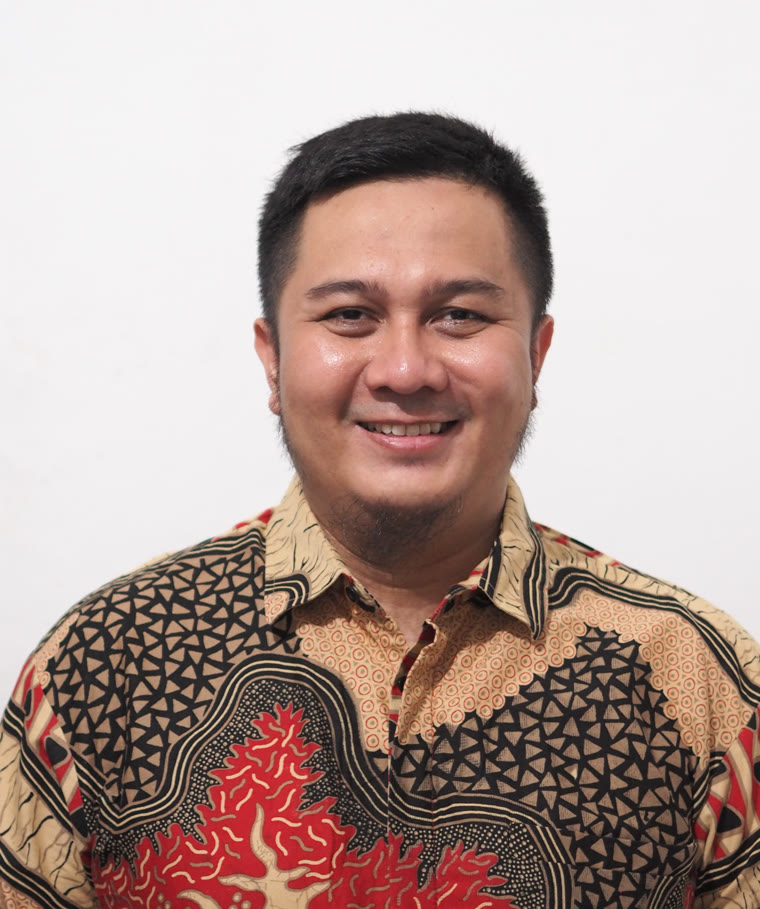
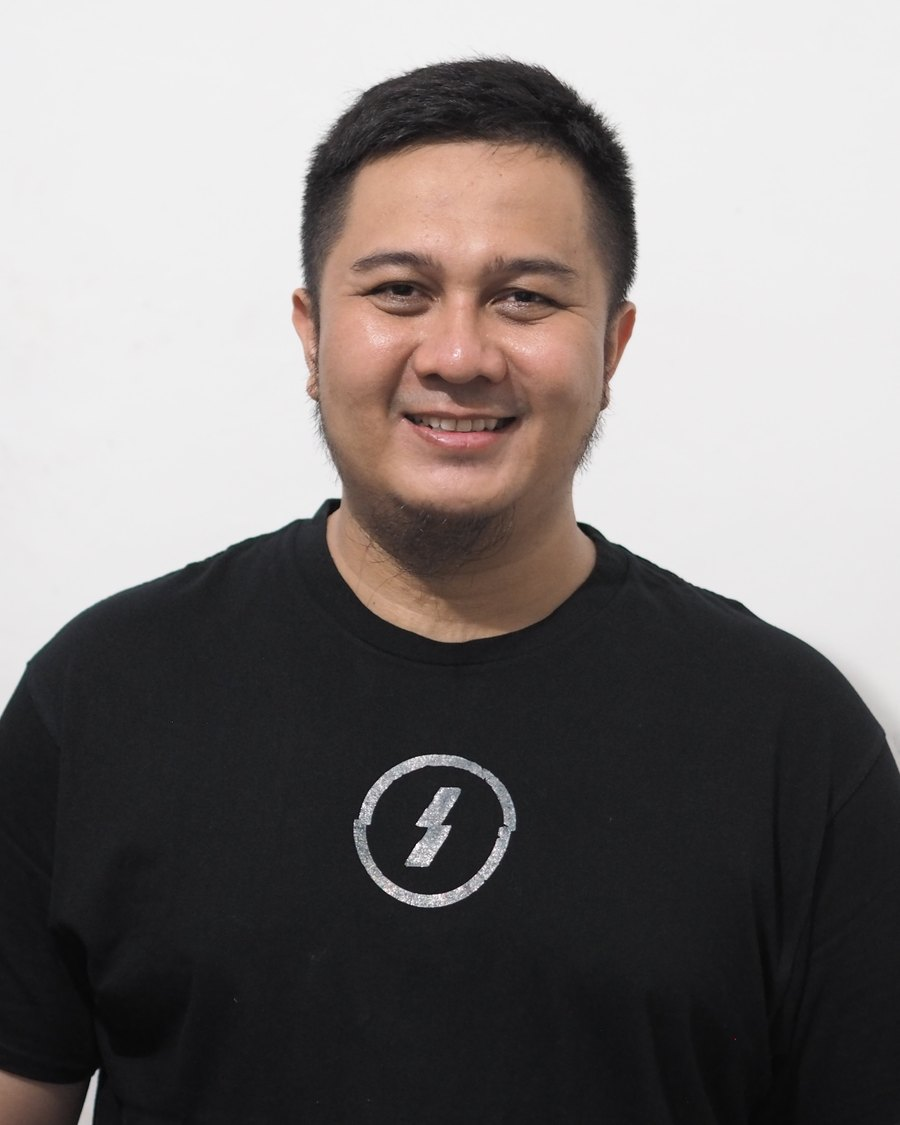
Swap hero headshot (PA131054) + email CTA to [email redacted]
- Replace hero portrait with new ALVA-tee headshot, cropped 4:5 head-and-shoulders, downscaled for web (900x1125)
- Contact email CTA now mailto:[email redacted]

diff --git a/index.html b/index.html
@@ -443,7 +443,7 @@
       <p>Open to product leadership, AI &amp; automation engagements, and a good conversation.</p>
       <div class="btns">
         <a class="btn primary" href="https://calendar.notion.so/meet/muhamadmuslih/quickchat" target="_blank" rel="noopener">Book a Chat</a>
-        <a class="btn ghost" href="mailto:[email redacted]">Email</a>
+        <a class="btn ghost" href="mailto:[email redacted]">Email</a>
         <a class="btn ghost" href="https://www.linkedin.com/in/muhamad-muslihh/" target="_blank" rel="noopener">LinkedIn</a>
         <a class="btn ghost" href="https://medium.com/@muhamad.muslih91" target="_blank" rel="noopener">Medium</a>
       </div>